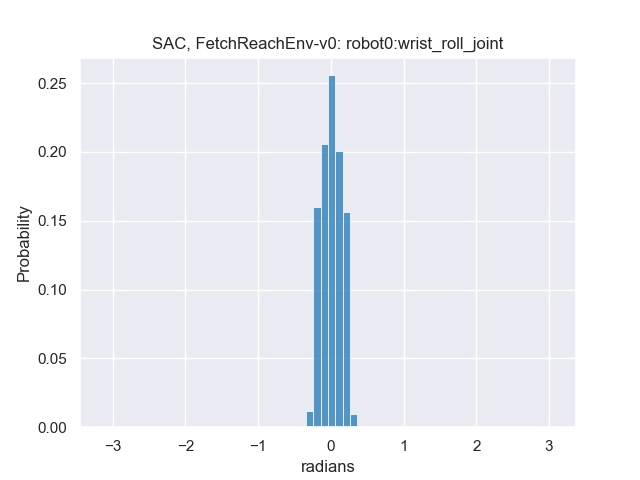
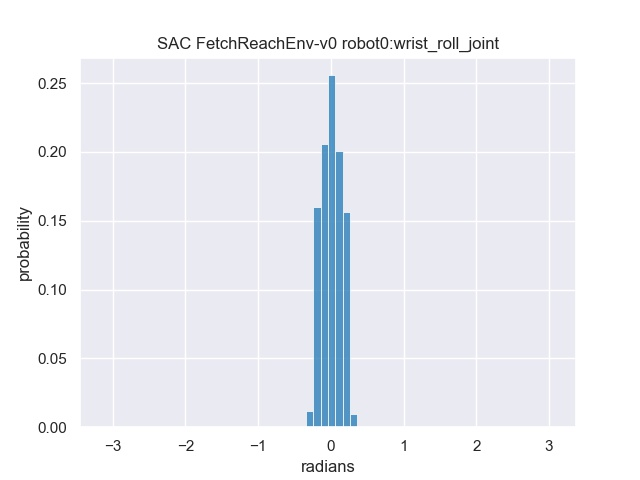
updated histogram

Changed region(s): [[0.2188, 0.0625, 0.7812, 0.125], [0.0312, 0.4375, 0.0625, 0.5938]]

diff --git a/plot/histogram/histogram.py b/plot/histogram/histogram.py
@@ -526,14 +526,14 @@ def plot_fetchreach_histograms(ranges):
 
     index = 0  # shoulder_pan_joint
     df = pd.DataFrame(fetchreach_histogram_data[index], columns=["radians"])
-    sns.histplot(data=df, x="radians", color="tab:blue", stat="probability", bins=np.arange(ranges[index][0], ranges[index][1], 0.1)).set_title("{} {} robot0:shoulder_pan_joint".format(algorithm, env_name))
+    sns.histplot(data=df, x="radians", color="tab:blue", stat="probability", bins=np.arange(ranges[index][0], ranges[index][1], 0.05)).set_title("{} {} robot0:shoulder_pan_joint".format(algorithm, env_name))
     plt.ylabel("probability")
     plt.savefig(histogram_plot_directory + "/{}_{}_shoulder_pan_joint_{}.jpg".format(algorithm, env_name, num_seeds))
     plt.close()
 
     index = 1  # shoulder_lift_joint
     df = pd.DataFrame(fetchreach_histogram_data[index], columns=["radians"])
-    sns.histplot(data=df, x="radians", color="tab:blue", stat="probability", bins=np.arange(ranges[index][0], ranges[index][1], 0.1)).set_title("{} {} robot0:shoulder_lift_joint".format(algorithm, env_name))
+    sns.histplot(data=df, x="radians", color="tab:blue", stat="probability", bins=np.arange(ranges[index][0], ranges[index][1], 0.05)).set_title("{} {} robot0:shoulder_lift_joint".format(algorithm, env_name))
     plt.ylabel("probability")
     plt.savefig(histogram_plot_directory + "/{}_{}_shoulder_lift_joint_{}.jpg".format(algorithm, env_name, num_seeds))
     plt.close()
@@ -561,7 +561,7 @@ def plot_fetchreach_histograms(ranges):
 
     index = 5  # wrist_flex_joint
     df = pd.DataFrame(fetchreach_histogram_data[index], columns=["radians"])
-    sns.histplot(data=df, x="radians", color="tab:blue", stat="probability", bins=np.arange(ranges[index][0], ranges[index][1], 0.1)).set_title("{} {} robot0:wrist_flex_joint".format(algorithm, env_name))
+    sns.histplot(data=df, x="radians", color="tab:blue", stat="probability", bins=np.arange(ranges[index][0], ranges[index][1], 0.05)).set_title("{} {} robot0:wrist_flex_joint".format(algorithm, env_name))
     plt.ylabel("probability")
     plt.savefig(histogram_plot_directory + "/{}_{}_wrist_flex_joint_{}.jpg".format(algorithm, env_name, num_seeds))
     plt.close()
@@ -639,7 +639,7 @@ def plot_fetchreach_heatmap(ranges):
     plt.ylabel("normalized angle")
     plt.tight_layout()
     plt.savefig(histogram_plot_directory + "/{}_{}_heatmap_{}.jpg".format(algorithm, env_name, num_seeds))
-    plt.show()
+    # plt.show()
     plt.close()
 
 
@@ -885,8 +885,8 @@ if __name__ == "__main__":
     collect_data = args.collect_data
 
     # test file for fetchreach
-    # file = "/mnt/DATA/shared/fetchreach/normal/SACv2_FetchReachEnv-v0:2000000_g:0.8097_t:0.0721_a:0.2_lr:0.001738_hd:256_rbs:10000_bs:512_mups:1_tui:1_tef:10000_ee:10_tmsf:20000_a:True_d:cuda_ps:True_pss:21"
-    # draw_histogram()
+    file = "/mnt/DATA/shared/fetchreach/normal/SACv2_FetchReachEnv-v0:2000000_g:0.8097_t:0.0721_a:0.2_lr:0.001738_hd:256_rbs:10000_bs:512_mups:1_tui:1_tef:10000_ee:10_tmsf:20000_a:True_d:cuda_ps:True_pss:21"
+    draw_histogram()
 
     # # fetchreach normal
     # # PPO v0
@@ -985,8 +985,8 @@ if __name__ == "__main__":
     # draw_histogram()
 
     # test file for Ant
-    file = "/mnt/DATA/shared/ant/normal/SACv2_Ant-v2:20000000_g:0.9646_t:0.0877_a:0.2_lr:0.001092_hd:256_rbs:500000_bs:512_mups:1_tui:1_tef:100000_ee:10_tmsf:1000000_a:True_d:cuda_ps:True_pss:61_resumed"
-    draw_histogram()
+    # file = "/mnt/DATA/shared/ant/normal/SACv2_Ant-v2:20000000_g:0.9646_t:0.0877_a:0.2_lr:0.001092_hd:256_rbs:500000_bs:512_mups:1_tui:1_tef:100000_ee:10_tmsf:1000000_a:True_d:cuda_ps:True_pss:61_resumed"
+    # draw_histogram()
 
     # # ant normal
     # # PPO
